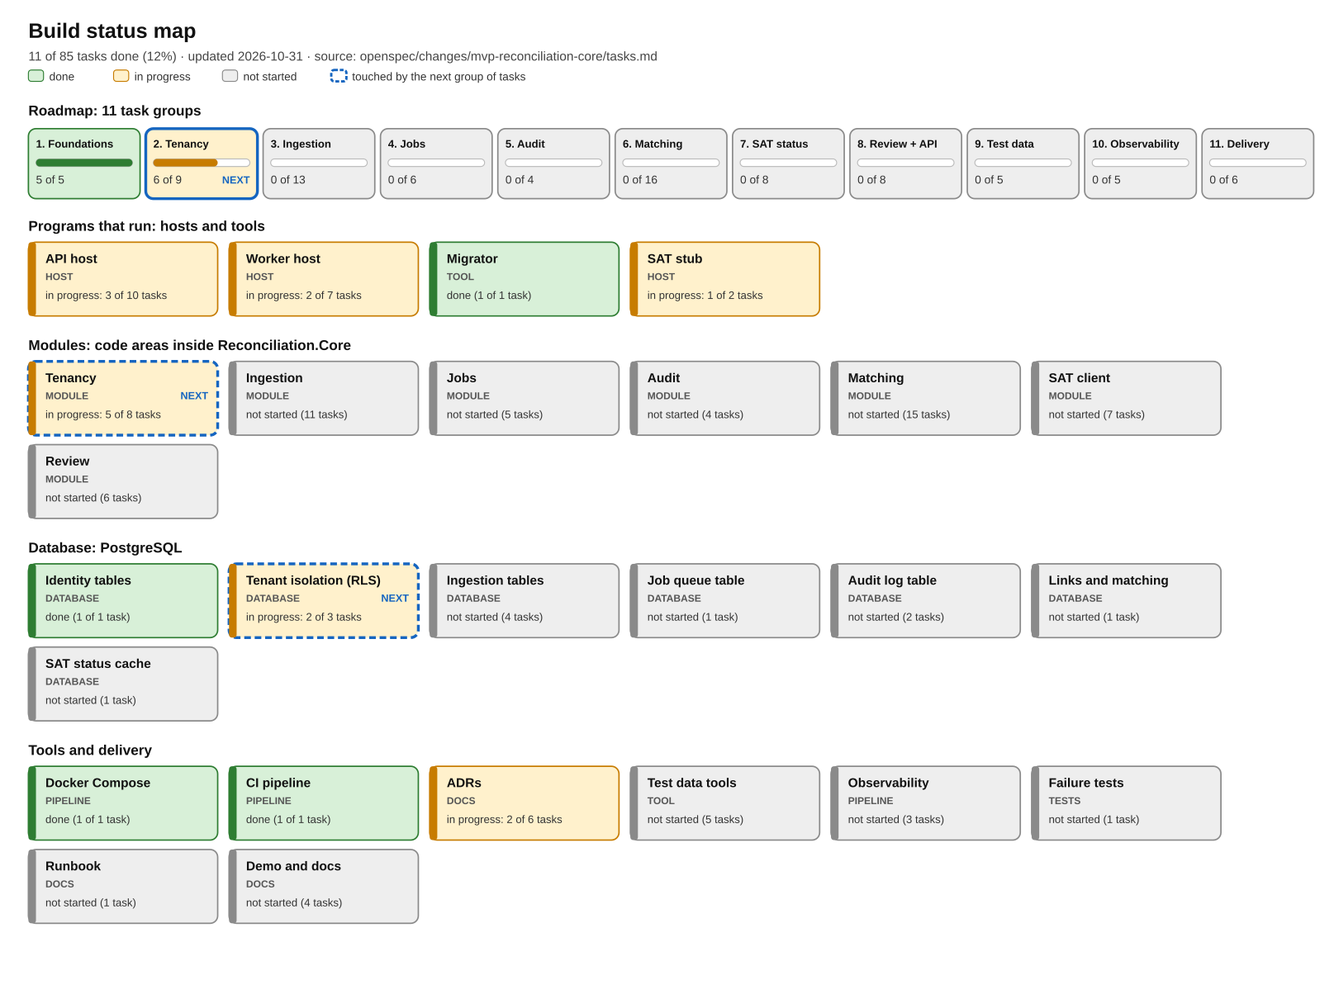
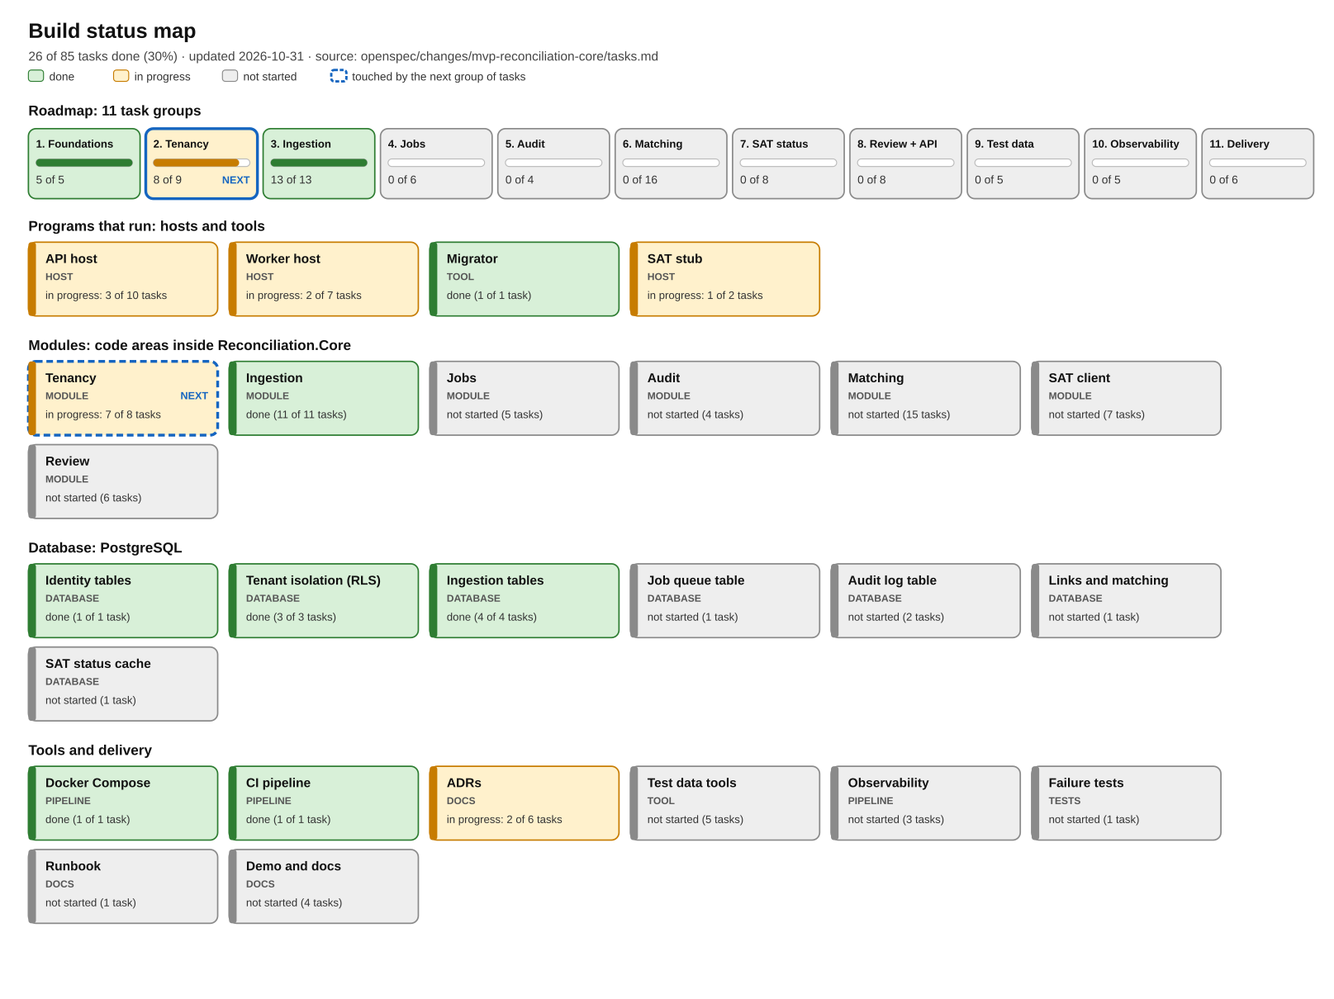
feat: document PR-3 ingestion contracts decisions and bilingual progress

diff --git a/docs/BUILD-LOG.md b/docs/BUILD-LOG.md
@@ -12,7 +12,7 @@ This log explains them; the status map below is generated from them.
 
 ![Build status map](progress/status-map.png)
 
-**11 of 85 tasks done. Group 2: 6 of 9 complete; 2.4, 2.6 and 2.9 await domain scenarios in later groups.**
+**26 of 85 tasks done. Group 3 is complete; group 2 has only 2.4 pending for real link decisions in group 8.**
 Regenerate the picture after ticking tasks: `python3 tools/progress_diagram.py` (add `--lang es` for the Spanish map).
 
 ### What the types mean
@@ -37,17 +37,96 @@ Regenerate the picture after ticking tasks: `python3 tools/progress_diagram.py` 
 | **Worker host** | Host | Runs background jobs (imports, matching, SAT checks). Today it starts, reports health and idles | `src/Reconciliation.Worker` |
 | **Migrator** | Tool | Applies or reverts database changes (`up`, `down`) | `src/Reconciliation.Migrator` |
 | **SAT stub** | Host | A fake of the SAT status service so development needs no real account. Today only a placeholder | `src/Reconciliation.SatStub` |
-| **PostgreSQL 17** | Database | Stores all data. Identity and tenancy tables plus a minimal `audit_entry`, with forced tenant RLS | `docker-compose.yml`, migrations `M0001` to `M0003` |
+| **PostgreSQL 17** | Database | Stores all data. Identity and tenancy tables plus a minimal `audit_entry`, with forced tenant RLS | `docker-compose.yml`, migrations `M0001` to `M0004` |
 | Docker Compose | Pipeline | Starts database, migrator, API, worker and stub with one command and waits until all are healthy | `docker-compose.yml`, `Dockerfile` |
 | CI pipeline | Pipeline | On every push: format check, build, tests, migrations up/down/up, and a full stack start | `.github/workflows/ci.yml` |
 | ADRs | Docs | Short records of big decisions and the alternatives rejected | `docs/adr/` |
 | Requirements and plan | Docs | BRS, SRS (English and Spanish), diagrams, and the OpenSpec change that defines the work | `docs/`, `openspec/` |
-| Tests | Tests | 45 xUnit cases: 40 passing, 5 explicitly pending; real PostgreSQL tenancy tests | `tests/Reconciliation.Tests` |
+| Tests | Tests | 103 xUnit cases: 100 passing, 3 explicitly pending; real PostgreSQL tenancy and ingestion tests | `tests/Reconciliation.Tests` |
 | Progress map | Tool | Draws the status picture from `tasks.md` | `tools/progress_diagram.py` |
 
 ## 3. Pull request log
 
 Newest first. Each entry says what changed, why, and what you can learn from it.
+
+### PR-3: Domain model and ingestion (tasks 3.1–3.8, including 3.4b–3.4f)
+
+**Purpose:** turn synthetic CFDI and reference bank CSV into isolated, exact, retained accounting records.
+**How:** red-test commits precede implementation commits; all persistence scenarios use the real PostgreSQL
+Testcontainers fixture and actual migrator. Parsers are also tested directly for malformed and hostile input.
+**Verified:** build with zero warnings/errors, `dotnet test --solution Reconciliation.slnx` (100 passed, 3 skipped),
+format verification, Compose build/start with all services healthy, and migrations up/down/up on a disposable
+PostgreSQL database. Both progress maps were regenerated. No push was performed.
+
+#### Model, exact money and RLS (3.2, 3.8)
+- **Purpose:** keep rows isolated, amounts exact, and imports free from duplicates.
+- **How:** M0004 adds `import_file`, `cfdi`, `cfdi_relation`, `cfdi_payment`, `cfdi_payment_doc`, `bank_account` and
+  `bank_movement`. Each has company_id, forced RLS and a policy. Composite foreign keys prevent a child pointing
+  to another tenant. UUID uniqueness is per company; movement uniqueness includes account, date, description,
+  credit/debit and balance. Money uses decimal / numeric(18,2); exchange rates use numeric(20,10).
+- **What I learned:** database constraints are the final guard for duplicate and cross-tenant relationships.
+  Both C# and PostgreSQL sum 0.10 + 0.20 to exactly 0.30.
+
+#### Safe parsing and declared fiscal values (3.3, 3.4, 3.4b–3.4e)
+- **Purpose:** accept income, credit notes and payment complement 2.0 without reading external resources or
+  silently changing the declared accounting values.
+- **How:** XML prohibits DTDs and external resolution, with a bounded scan before building a document. Header
+  totals are checked exactly, including discounts and federal/local transfers and retentions; taxes are not
+  recomputed from rates. The synthetic retention sample imports at 1,939.27. Concept amounts with six decimals
+  remain accepted and are not recomputed or separately stored. Header/payment money with more than two declared
+  decimal places is rejected, even for trailing zeroes; the MVP treats other currencies as two decimals too.
+  Unsupported complement versions are rejected. Each related line checks previous - paid = remaining; continuity
+  is checked between consecutive installments present within the upload. Inconsistency is a stored review flag,
+  never a rejection. Earlier missing installments and pre-imported invoices are not required. Rejected/unrelated
+  files cannot influence valid files' continuity checks. SAT relation codes (including unknown ones), global
+  information/generic RFC flags, issue and stamp times are retained. Unknown relation codes are stored for later
+  interpretation; ingestion never applies them to payable amounts.
+- **What I learned:** validation of declared values differs from recomputing fiscal rules. Local timestamps must
+  have no timezone and at most six fractional digits; finer precision is rejected so PostgreSQL cannot silently
+  change it. A deliberately inconsistent concept value is accepted when the declared header arithmetic is valid.
+
+#### Reports, originals and upload limits (3.4f, 3.5)
+- **Purpose:** explain each file's outcome and return accepted originals byte for byte.
+- **How:** one import_file row per file shares an upload_id; there is no batch table. Each row stores status,
+  reason and SHA-256; rejected files keep the hash but no bytes. Duplicate UUID reports refer to the original
+  file and never replace its data. A transaction advisory lock makes concurrent UUID uploads idempotent, backed
+  by the unique constraint. Accepted originals have a database immutability trigger and no DELETE privilege/path.
+  RetentionYears defaults to 10, is validated at startup (minimum 5, conservative maximum 100), and sets retained_until.
+- **Limits decided with Claude:** MaxFileBytes=10 MiB, MaxUploadBytes=20 MiB, MaxFiles=20, MaxXmlNodes=100000 and
+  MaxXmlDepth=64. All are configurable under Ingestion. Aggregate byte/file-count limits reject the whole upload
+  before persistence (413/400). A per-file size breach or invalid/hostile XML rejects only that file. Multipart
+  parsing counts bytes while reading, including requests without Content-Length; oversized file bytes are drained
+  into a hash without retaining the payload. Accepted buffering stays within the aggregate bound. The aggregate
+  limit counts multipart overhead too. Request cancellation flows through reads and database operations.
+- **What I learned:** a mixed upload needs a per-file transaction; a failed file must not roll back valid files.
+  The full hash can be retained without keeping rejected content. Full audit hash chaining remains group 5 work.
+
+#### Reference statements (3.1, 3.6, 3.7)
+- **Purpose:** provide one documented bank format and a seam for later real-bank parsers.
+- **How:** docs/bank-csv-reference-format.md defines the exact header, UTF-8, ISO dates, cent precision, quoting
+  and synthetic examples; those examples run through IBankStatementParser. The platform CSV reader handles quoted
+  commas and CRLF. Malformed lines reject the entire statement with a line number and create no partial account
+  or movements. Unknown banks list the supported identifier, reference. bank=reference plus accountReference
+  creates/reuses an account by company/bank/label; there is no account CRUD endpoint. accountReference is an ASCII
+  label of 1–40 letters/digits/spaces/-/_, never a full real account number (use a suitable label/last four digits).
+  RASTREO takes precedence over REF; absent tokens are null. Overlapping statements count new and duplicate lines,
+  while equal lines with different balances remain distinct. Original statement bytes/hashes are retained too.
+- **What I learned:** an existing platform CSV parser avoids hand-written quote handling. The conservative empty
+  statement behavior is rejection; there must be at least one movement and exactly one positive credit/debit per line.
+
+#### HTTP and closure of tenancy scenarios
+- **Purpose:** expose real ingestion with accountant imports and viewer reads.
+- **How:** all routes below require current membership and X-Company-Id; only administrators/accountants import:
+  POST /companies/{id}/imports/cfdi and /imports/bank-statement; GET /companies/{id}/imports/{uploadId},
+  /cfdi/{invoiceId}, /cfdi/{invoiceId}/xml, /imports/files/{fileId}/original and /banks. File parts are named files.
+  Reports preserve per-file status, reason, resource ids and statement counts. The isolation guard discovers all
+  routes, seeds real positive baselines, tries B's resource ids under A's valid context, and compares all B tenant
+  tables before/after attempts. “Cross-company attempt in the test suite” now proves 404 for a real B invoice;
+  “Delete attempt” proves 405 and unchanged invoice/original. Tasks 2.6 and 2.9 are therefore complete.
+- **What I learned:** a 404 only proves isolation when a successful owner request first proves the resource exists.
+
+**Still skipped:** “Viewer cannot decide” and “Different roles” need real links in group 8; “Tolerance changed”
+needs a reconciliation run in group 6. Task 2.4 stays unticked. Imports are synchronous until group 4 jobs.
 
 ### PR-2: Tenancy and access (group 2; six tasks complete, three pending)
 
@@ -192,11 +271,11 @@ up/down/up on a real database, and the GitHub Actions run `41122200072` succeede
   fix was to pin a patched version (`System.Security.Cryptography.Pkcs` 10.0.14) instead of silencing the warning.
 - The first scaffold was TypeScript. It was discarded when the stack changed to C#; nothing depended on it.
 
-## 4. Next work: group 3, with three tenancy tasks still pending
+## 4. Next work: group 4, Jobs
 
-Group 3 adds the domain model and real imports. Replace the pending invoice-isolation and retention tests when
-those endpoints exist. Group 6 replaces the settings/run scenario; group 8 replaces the link-decision scenarios.
-The generated map intentionally keeps Tenancy and Tenant isolation in progress until those checks are real.
+Move the synchronous ingestion services behind the PostgreSQL job queue, preserving their tenant transaction,
+per-file results and idempotency. Task 2.4 remains pending for real link decisions in group 8; the settings/run
+check remains pending for group 6. The progress map intentionally keeps group 2 in progress.
 
 ## 5. The rest of the road
 

diff --git a/docs/BUILD-LOG-ES.md b/docs/BUILD-LOG-ES.md
@@ -12,7 +12,7 @@ Fuente de verdad de los elementos de trabajo: `openspec/changes/mvp-reconciliati
 
 ![Mapa de estado de la construcción](progress/status-map-es.png)
 
-**11 de 85 tareas completas. Grupo 2: 6 de 9; 2.4, 2.6 y 2.9 esperan escenarios de grupos posteriores.**
+**26 de 85 tareas completas. Grupo 3 completo; del grupo 2 solo queda 2.4 para decisiones reales del grupo 8.**
 Regenera la imagen después de marcar tareas: `python3 tools/progress_diagram.py --lang es`
 (sin `--lang es` genera la versión en inglés).
 
@@ -38,17 +38,91 @@ Regenera la imagen después de marcar tareas: `python3 tools/progress_diagram.py
 | **Host del worker** | Host | Ejecuta trabajos en segundo plano (importaciones, conciliación, consultas al SAT). Hoy arranca, reporta su salud y espera | `src/Reconciliation.Worker` |
 | **Migrador** | Herramienta | Aplica o revierte cambios de la base de datos (`up`, `down`) | `src/Reconciliation.Migrator` |
 | **Stub del SAT** | Host | Una simulación del servicio de estatus del SAT para desarrollar sin cuenta real. Hoy es solo un marcador | `src/Reconciliation.SatStub` |
-| **PostgreSQL 17** | Base de datos | Guarda todos los datos. Identidad, multiempresa y una `audit_entry` mínima con RLS forzado | `docker-compose.yml`, migraciones `M0001` a `M0003` |
+| **PostgreSQL 17** | Base de datos | Guarda todos los datos. Identidad, multiempresa y una `audit_entry` mínima con RLS forzado | `docker-compose.yml`, migraciones `M0001` a `M0004` |
 | Docker Compose | Pipeline | Arranca base de datos, migrador, API, worker y stub con un solo comando y espera a que todos estén sanos | `docker-compose.yml`, `Dockerfile` |
 | Pipeline de CI | Pipeline | En cada push: revisión de formato, compilación, pruebas, migraciones subir/bajar/subir y arranque completo del sistema | `.github/workflows/ci.yml` |
 | ADR | Docs | Registros breves de las decisiones grandes y de las alternativas descartadas | `docs/adr/` |
 | Requisitos y plan | Docs | BRS, SRS (inglés y español), diagramas y el cambio de OpenSpec que define el trabajo | `docs/`, `openspec/` |
-| Pruebas | Pruebas | 45 casos xUnit: 40 aprobados, 5 pendientes explícitos; PostgreSQL real para multiempresa | `tests/Reconciliation.Tests` |
+| Pruebas | Pruebas | 103 casos xUnit: 100 aprobados, 3 pendientes explícitos; PostgreSQL real para multiempresa e ingesta | `tests/Reconciliation.Tests` |
 | Mapa de progreso | Herramienta | Dibuja la imagen de estado a partir de `tasks.md` | `tools/progress_diagram.py` |
 
 ## 3. Registro de pull requests
 
 Primero el más reciente. Cada entrada dice qué cambió, por qué y qué puedes aprender de ello.
+
+### PR-3: Modelo de dominio e ingesta (3.1–3.8, incluidas 3.4b–3.4f)
+
+**Para qué:** convertir CFDI sintéticos y CSV bancario de referencia en registros aislados, exactos y conservados.
+**Cómo:** cada implementación sigue a su commit de pruebas rojas. La persistencia usa PostgreSQL real mediante
+Testcontainers y el migrador real; los parsers también se prueban directamente con entradas inválidas y hostiles.
+**Verificado:** compilación sin advertencias/errores, `dotnet test --solution Reconciliation.slnx` con 100 aprobados
+ y 3 omitidos, revisión de formato, Compose compilado y sano, migraciones subir/bajar/subir en una base desechable
+ y ambos mapas regenerados. No se hizo push.
+
+#### Modelo, dinero exacto y RLS (3.2, 3.8)
+- **Para qué:** aislar filas, conservar importes exactos y evitar duplicados.
+- **Cómo:** M0004 agrega import_file, cfdi, cfdi_relation, cfdi_payment, cfdi_payment_doc, bank_account y bank_movement.
+  Todas llevan company_id, RLS forzado y política. Claves foráneas compuestas impiden referencias a otra empresa.
+  UUID es único por empresa; la identidad del movimiento incluye cuenta, fecha, descripción, abono/cargo y saldo.
+  Dinero usa decimal / numeric(18,2), y tipos de cambio numeric(20,10).
+- **Qué aprendí:** restricciones SQL protegen también contra errores del código. Tanto C# como PostgreSQL suman
+  0.10 + 0.20 exactamente a 0.30.
+
+#### XML seguro y valores fiscales declarados (3.3, 3.4, 3.4b–3.4e)
+- **Para qué:** aceptar ingresos, egresos y complemento de pago 2.0 sin leer recursos externos ni alterar valores.
+- **Cómo:** DTD y resolución externa están prohibidos; un recorrido acotado limita tamaño, nodos y profundidad.
+  La aritmética de cabecera incluye descuentos, traslados y retenciones federales/locales, sin recalcular tasas.
+  La muestra sintética importa con 1,939.27. Importes de conceptos con seis decimales se aceptan sin recalcularlos
+  ni guardarlos por separado. Cabecera, pagos y saldos con más de dos decimales declarados se rechazan, incluidos
+  ceros adicionales; el MVP trata otras monedas con dos decimales. Versiones antiguas del complemento se rechazan.
+  Cada línea comprueba saldo anterior - pagado = restante y la continuidad entre parcialidades consecutivas presentes
+  en la carga. Una inconsistencia se guarda marcada para revisión, sin rechazar el complemento. No se infieren
+  parcialidades ausentes ni se exige haber importado la factura. Archivos rechazados o ajenos no afectan líneas válidas.
+  Se guardan códigos de relación incluso desconocidos, indicador global/RFC genérico y fechas de emisión/timbrado.
+  Ingesta conserva relaciones; no las aplica a importes pendientes.
+- **Qué aprendí:** verificar valores declarados es distinto de recalcular reglas fiscales. Las fechas locales no
+  llevan zona y admiten hasta seis dígitos fraccionarios; se rechaza más precisión para no cambiarla en PostgreSQL.
+
+#### Reportes, originales y límites (3.4f, 3.5)
+- **Para qué:** explicar el resultado de cada archivo y devolver originales byte por byte.
+- **Cómo:** cada archivo tiene una fila import_file, agrupada por upload_id, sin tabla de lote. Se guarda estado,
+  motivo y SHA-256; un rechazado conserva hash, no bytes. Un UUID repetido apunta al original y no lo reemplaza.
+  Un bloqueo transaccional por empresa/UUID serializa duplicados concurrentes, respaldado por la restricción única.
+  Un trigger impide cambiar originales/hashes o acortar conservación; no hay privilegio ni ruta DELETE.
+  RetentionYears vale 10 por defecto, se valida al arrancar (mínimo 5, máximo conservador 100) y fija retained_until.
+- **Decisiones con Claude:** MaxFileBytes=10 MiB, MaxUploadBytes=20 MiB, MaxFiles=20, MaxXmlNodes=100000 y MaxXmlDepth=64,
+  configurables en Ingestion. Tamaño agregado o cantidad excesiva rechazan toda la carga antes de persistir (413/400).
+  Un archivo demasiado grande o XML inválido/hostil solo rechaza ese archivo. Se cuentan bytes durante la lectura
+  multipart, incluso sin Content-Length. Los bytes de un archivo grande se descartan mientras se calcula su hash;
+  el buffer aceptado queda dentro del máximo agregado, que incluye cabeceras multipart. Lecturas y SQL reciben cancelación.
+- **Qué aprendí:** cada archivo necesita su transacción para que uno inválido no revierta los demás. Se puede conservar
+  el hash completo sin guardar contenido rechazado. El encadenamiento completo de auditoría sigue en el grupo 5.
+
+#### Estados de cuenta de referencia (3.1, 3.6, 3.7)
+- **Para qué:** tener un formato documentado y un punto de extensión para bancos reales.
+- **Cómo:** docs/bank-csv-reference-format.md define cabecera, UTF-8, fechas ISO, centavos, comillas y ejemplos sintéticos
+  que se ejecutan con IBankStatementParser. Se usa el lector CSV de la plataforma. Una línea inválida rechaza todo el
+  archivo con número de línea y no crea cuenta ni movimientos parciales. Un banco desconocido informa reference.
+  bank=reference y accountReference crean/reutilizan la cuenta por empresa/banco/etiqueta; no hay CRUD de cuentas.
+  accountReference admite 1–40 letras/dígitos ASCII, espacios, guiones y guiones bajos; es etiqueta, nunca un número
+  real completo (sugerencia: últimos cuatro dígitos). RASTREO tiene prioridad sobre REF; sin token la referencia es nula.
+  Cargas traslapadas cuentan filas nuevas y repetidas; filas iguales con saldo distinto se conservan. También se guarda
+  el original del estado de cuenta con hash.
+- **Qué aprendí:** reutilizar el parser CSV evita errores con comillas y comas. Como decisión conservadora, se rechaza
+  un archivo sin movimientos y cada línea debe tener exactamente un abono o cargo positivo.
+
+#### API y cierre de escenarios de multiempresa
+- **Para qué:** permitir importaciones a contador/administrador y lecturas al rol consulta.
+- **Cómo:** todas las rutas validan membresía y X-Company-Id: POST /companies/{id}/imports/cfdi y /imports/bank-statement;
+  GET /companies/{id}/imports/{uploadId}, /cfdi/{invoiceId}, /cfdi/{invoiceId}/xml, /imports/files/{fileId}/original y /banks.
+  Los archivos usan el campo multipart files. El reporte conserva estados, motivos, ids y conteos de movimientos.
+  El guardián descubre rutas, prepara casos exitosos, intenta ids de B bajo contexto válido A y compara todas las tablas
+  de B antes/después. “Cross-company attempt in the test suite” ahora comprueba 404 con factura real de B; “Delete attempt”
+  comprueba 405 y factura/original intactos. Se completan 2.6 y 2.9.
+- **Qué aprendí:** un 404 solo demuestra aislamiento después de comprobar que el propietario sí puede leer el recurso.
+
+**Aún omitidos:** “Viewer cannot decide” y “Different roles” esperan vínculos reales del grupo 8; “Tolerance changed”
+espera corrida del grupo 6. La tarea 2.4 sigue sin marcar. Las importaciones son síncronas hasta los trabajos del grupo 4.
 
 ### PR-2: Multiempresa y acceso (grupo 2; seis tareas completas y tres pendientes)
 
@@ -210,11 +284,11 @@ terminó con éxito.
   10.0.14) en lugar de silenciar la advertencia.
 - El primer andamiaje fue en TypeScript. Se descartó cuando el stack cambió a C#; nada dependía de él.
 
-## 4. Siguiente trabajo: grupo 3, con tres tareas de multiempresa pendientes
+## 4. Siguiente trabajo: grupo 4, Trabajos
 
-El grupo 3 agrega modelo de dominio e importaciones reales. Al existir esos endpoints se reemplazan las pruebas
-pendientes de aislamiento de facturas y conservación. El grupo 6 reemplaza el escenario configuración/corrida y el
-8 los escenarios de decisiones. El mapa conserva Multiempresa y Aislamiento en progreso hasta verificar esos casos.
+Mover los servicios síncronos de ingesta a la cola PostgreSQL conservando transacciones por empresa, resultados
+por archivo e idempotencia. 2.4 espera decisiones reales del grupo 8; la prueba configuración/corrida espera el
+grupo 6. El mapa conserva el grupo 2 en progreso de forma intencional.
 
 ## 5. El resto del camino
 

diff --git a/README.md b/README.md
@@ -72,9 +72,33 @@ must have 12 characters for a new account; an existing account keeps its passwor
 `{userId, role}` to the members route, patch settings, and `POST /companies/{id}/archive`. There are no DELETE routes.
 
 The initial audit table records company creation, settings and archival atomically. Group 5 adds the full audit
-contract. Five domain-dependent tenancy scenarios remain explicitly skipped; tasks 2.4, 2.6 and 2.9 stay open.
+contract. Three domain-dependent tenancy scenarios remain explicitly skipped; task 2.4 stays open. Real invoice isolation
+and delete-retention checks now pass, completing 2.6 and 2.9.
 Compose uses synthetic local credentials; replace them and use invite/reset links for a production deployment.
 See [ADR-003](docs/adr/ADR-003-tenant-isolation-rls.md).
+
+## Ingestion API
+
+Accountants/administrators can upload `multipart/form-data` with file parts named `files` to
+`POST /companies/{id}/imports/cfdi`. Bank statements use `POST /companies/{id}/imports/bank-statement`,
+with `bank=reference` and an `accountReference` synthetic label (for example `Synthetic-1234`).
+See [the CSV reference](docs/bank-csv-reference-format.md) for the header and tested synthetic examples.
+
+Uploads return `{uploadId, files}` with each file's `fileId`, `status`, `reason`, `cfdiId` where applicable,
+and new/duplicate statement movement counts. Any member can read:
+
+- `GET /companies/{id}/imports/{uploadId}` — persisted per-file report.
+- `GET /companies/{id}/cfdi/{invoiceId}` — declared invoice header (invoiceId is the stored record id).
+- `GET /companies/{id}/cfdi/{invoiceId}/xml` — unchanged original XML.
+- `GET /companies/{id}/imports/files/{fileId}/original` — unchanged original file, including a statement.
+- `GET /companies/{id}/banks` — supported parser identifiers.
+
+Use the same bearer token and matching `X-Company-Id` header as the tenancy API. An invalid file gets a rejected
+report without blocking valid files. Aggregate upload size/count breaches reject the request before persistence.
+Defaults: 10 MiB per file, 20 MiB aggregate including multipart overhead, 20 files, 100000 XML nodes, depth 64,
+and ten years of original retention. Configure via `Ingestion__MaxFileBytes`, `Ingestion__MaxUploadBytes`,
+`Ingestion__MaxFiles`, `Ingestion__MaxXmlNodes`, `Ingestion__MaxXmlDepth`, `Ingestion__RetentionYears` (minimum five).
+Imports are synchronous until group 4. No DELETE endpoint exists for imported records or originals.
 
 ## Decisions
 

diff --git a/docs/adr/ADR-003-tenant-isolation-rls.md b/docs/adr/ADR-003-tenant-isolation-rls.md
@@ -68,7 +68,7 @@ Testcontainers runs the real migrations against PostgreSQL. Tests prove absent-c
 write refusal, role restrictions, pooled connection cleanup, credential handling and transactional audit rollback.
 Deliberately dropping `membership_isolation` made the suite fail; restoring the policy returned it to green.
 
-Tasks 2.4, 2.6 and 2.9 remain open. Five tests retain the exact spec scenario names with explicit pending reasons:
-real invoice isolation and imported-CFDI retention (group 3), settings used by the next run (group 6), and real
-link decisions with viewer/different-role behavior (group 8). The accountant policy probe lives only in the test
-host. No placeholder invoice, link or reconciliation endpoints ship with this change.
+Group 3 now supplies real invoice reads and retained imported originals: tasks 2.6 and 2.9 are complete and their
+scenario tests are active. Task 2.4 remains open for real link decisions in group 8; the settings/run scenario awaits
+group 6. The accountant policy probe still lives only in the test host. Ingestion endpoints and M0004 tenant tables
+are covered by the route/table guards; no placeholder link or reconciliation endpoints ship.
